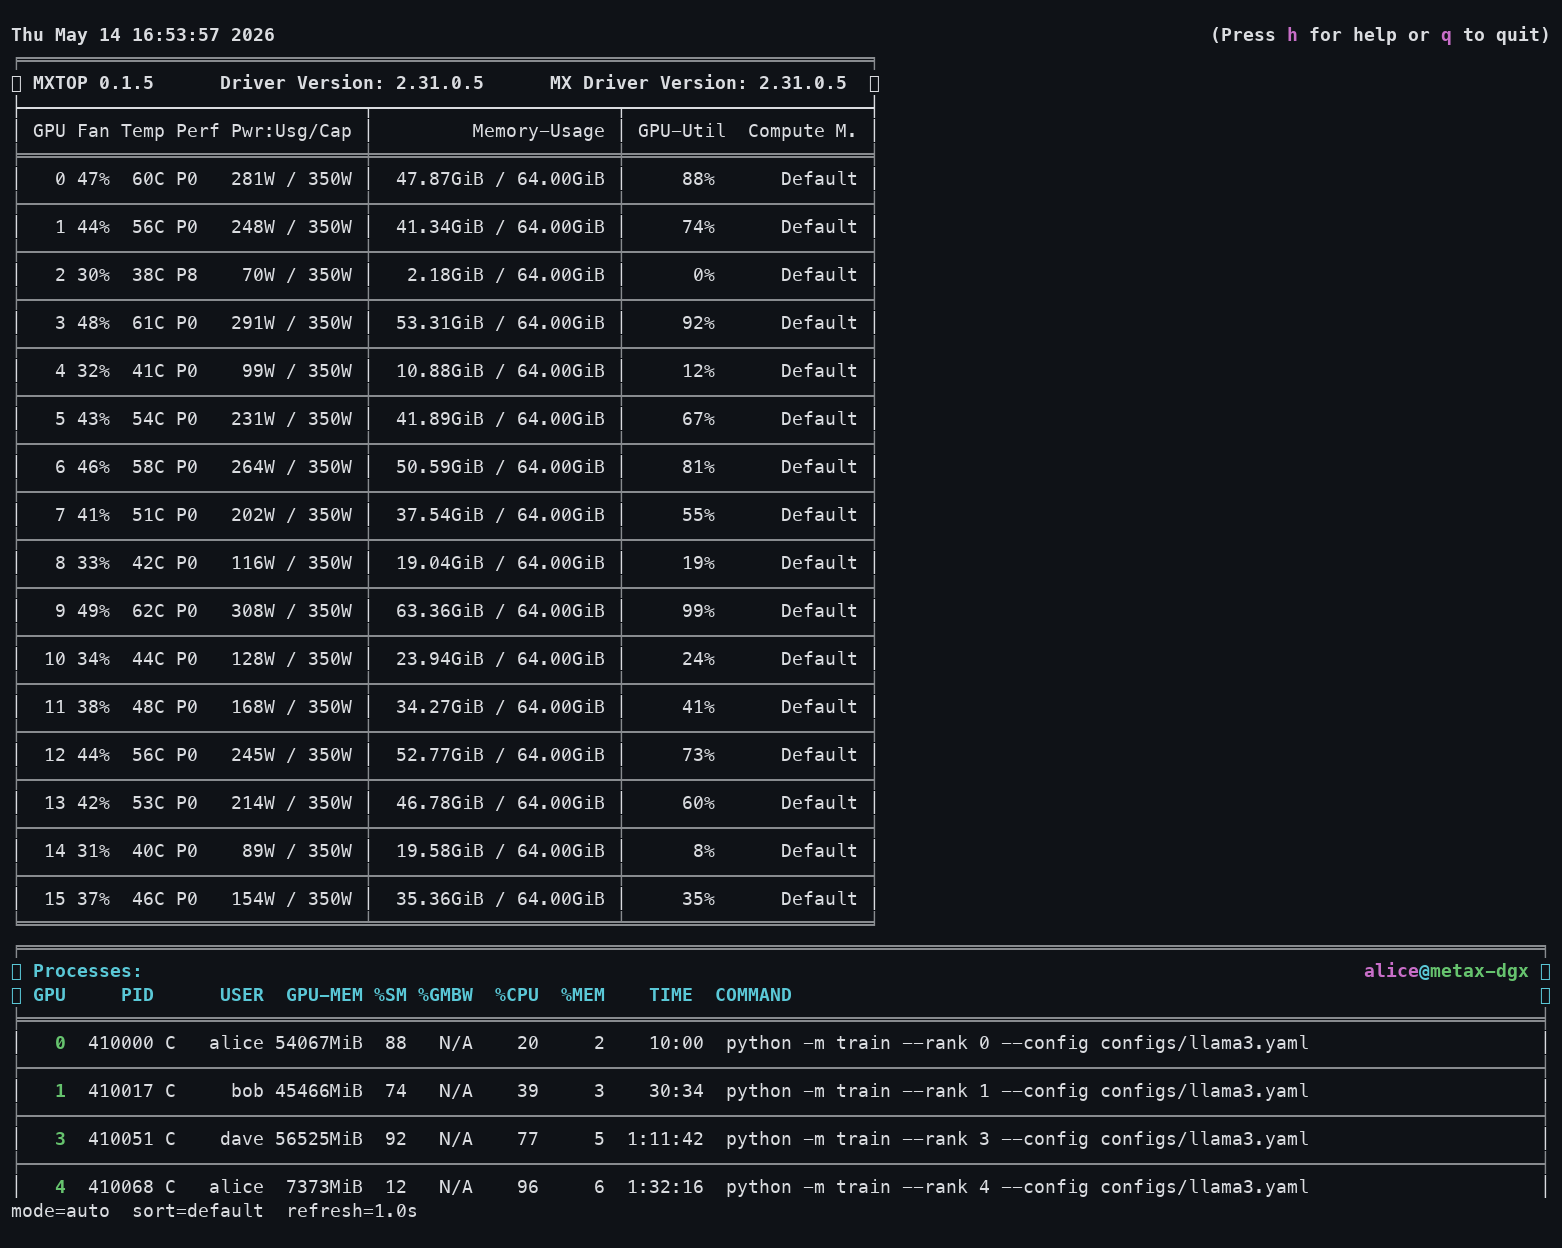
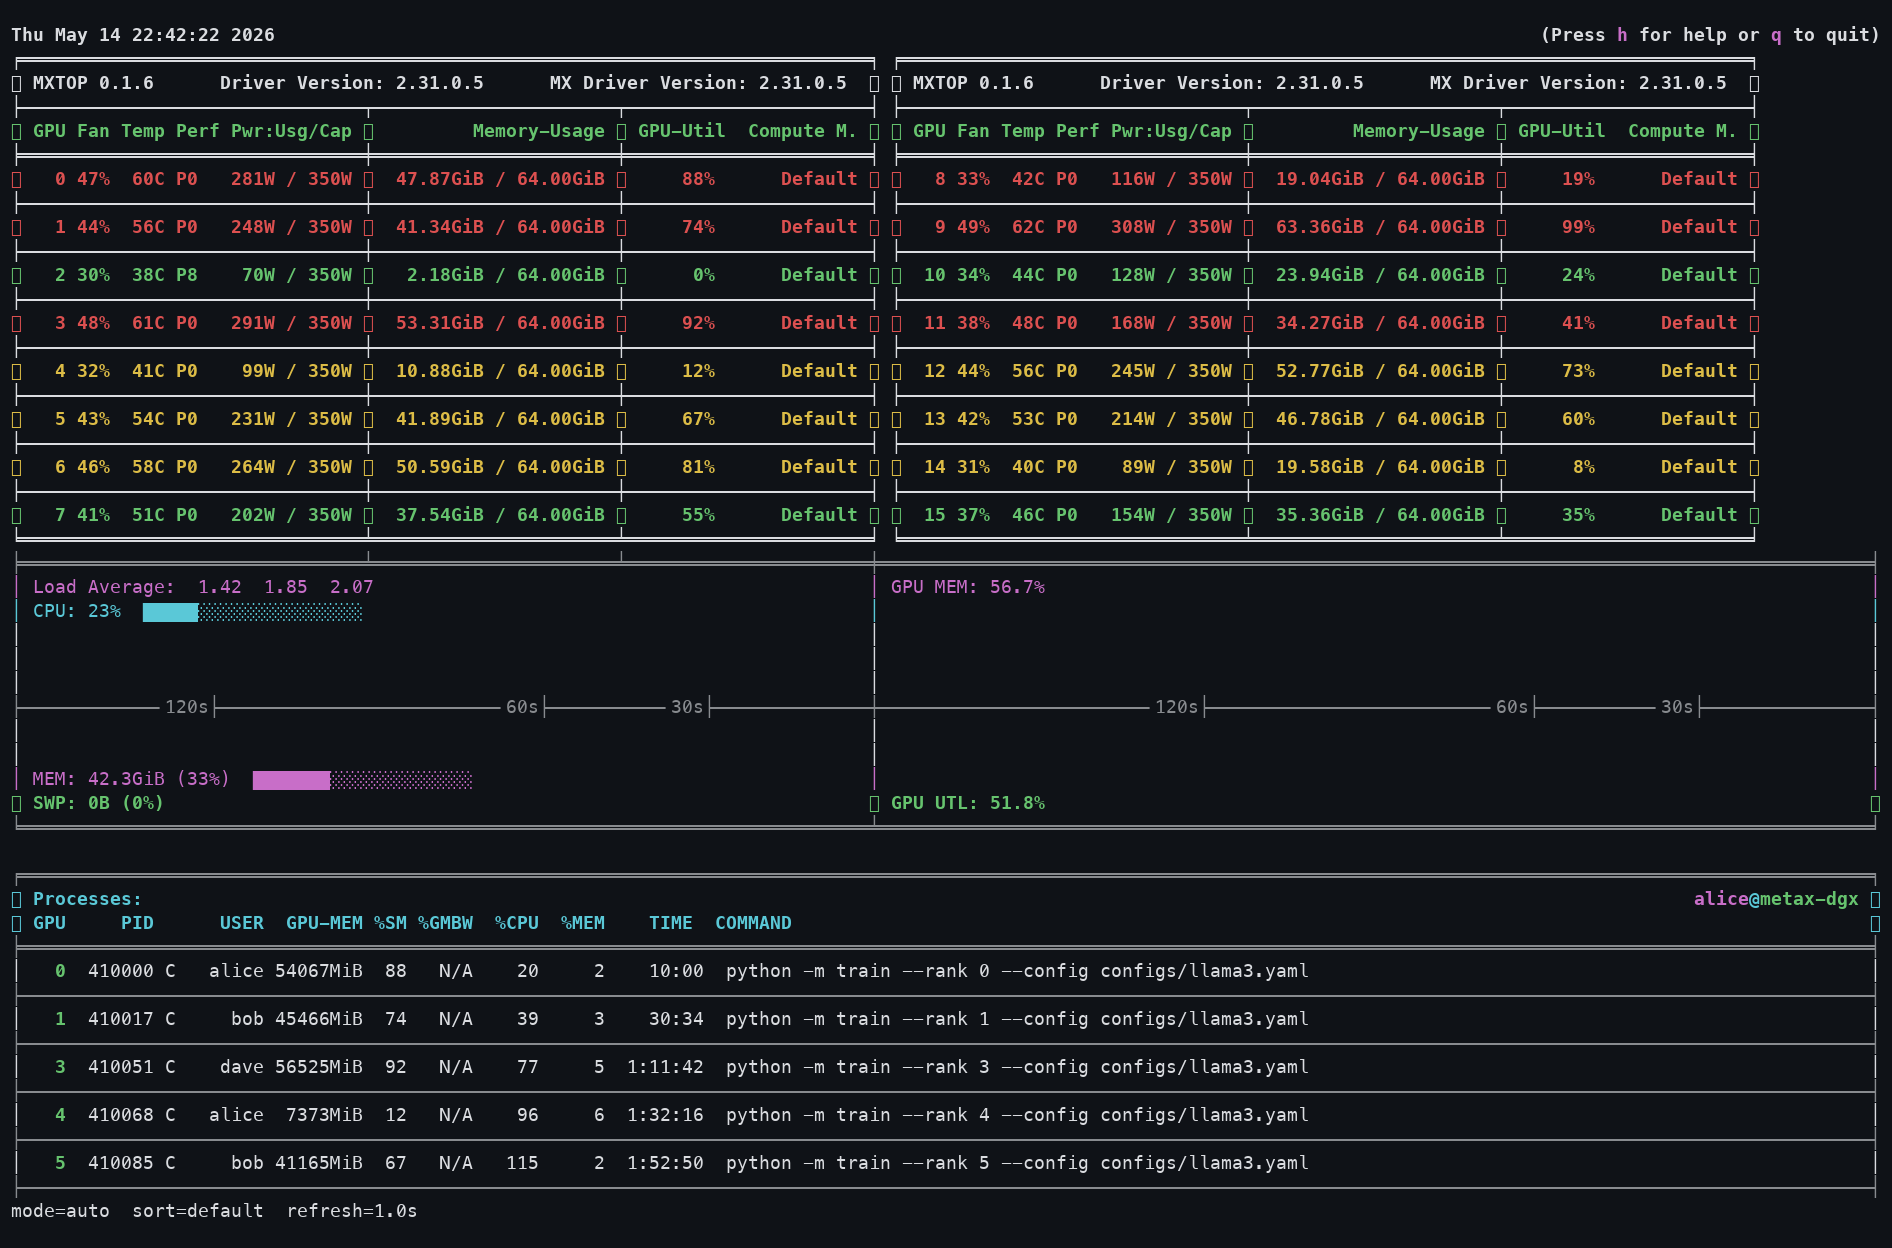
Add 8+8 compact GPU layout

Changed region(s): [[0.0, 0.0, 1.0, 1.0], [0.6146, 0.5625, 0.6453, 0.5938]]

diff --git a/src/mxtop/ui/panels.py b/src/mxtop/ui/panels.py
@@ -30,6 +30,9 @@ BAR_MIN_WIDTH = 100
 HOST_GRAPH_MIN_WIDTH = 100
 MIN_SCREEN_WIDTH = 79
 PROCESS_FIXED_PREFIX = 45
+COMPACT_COLUMN_LIMIT = 8
+COMPACT_COLUMN_GAP = 1
+COMPACT_GROUP_LIMIT = COMPACT_COLUMN_LIMIT * 2
 
 
 @dataclass(slots=True)
@@ -77,6 +80,8 @@ def render_device_panel(
     draw_bars = width >= BAR_MIN_WIDTH and not compact
     right_width = max(0, width - CORE_WIDTH) if draw_bars else 0
     driver_version = _driver_version(frame)
+    if compact and frame.devices and _can_render_compact_columns(len(frame.devices), width):
+        return _render_compact_device_columns(frame.devices, driver_version)
     lines: list[str] = []
     lines.append(_top_border(right_width))
     lines.append(_version_line(driver_version, right_width))
@@ -247,9 +252,9 @@ def render_main_screen(
 
     lines: list[str] = [render_title(frame, width, error)]
     show_host = state.layout != LayoutMode.COMPACT
-    compact_devices = _should_compact_devices(frame, state.layout, height, show_host)
+    compact_devices = _should_compact_devices(frame, state.layout, height, show_host, width)
     if compact_devices and state.layout == LayoutMode.AUTO:
-        show_host = show_host and _has_room_for_host(frame, height)
+        show_host = show_host and _has_room_for_host(frame, height, width)
     lines.extend(render_device_panel(frame, width, state.layout, compact=compact_devices))
     if show_host:
         lines.extend(render_host_panel(frame, width))
@@ -268,38 +273,117 @@ def render_main_screen(
     return RenderedScreen(lines, process_start=absolute_process_start, process_count=process_count)
 
 
-def _should_compact_devices(frame: FrameSnapshot, layout: LayoutMode, height: int | None, show_host: bool) -> bool:
+def _should_compact_devices(
+    frame: FrameSnapshot,
+    layout: LayoutMode,
+    height: int | None,
+    show_host: bool,
+    width: int,
+) -> bool:
     if layout == LayoutMode.COMPACT:
         return True
     if layout == LayoutMode.FULL:
         return False
     device_count = len(frame.devices) or 1
-    if device_count >= 8 and height is None:
-        return device_count >= 12
+    if device_count > COMPACT_COLUMN_LIMIT and height is None:
+        return True
     if height is None:
         return False
-    # Title (1) + version (1) + header_top (1) + headers (2) + divider (1) + bottom (1)
-    # Plus host panel (12 if shown) plus blank (1) plus process panel min (~6).
-    header_overhead = 7
+    # Title plus optional host panel/blank and a small process panel budget.
+    title_rows = 1
     host_overhead = 13 if show_host else 0
     process_min = 6
-    available_for_devices = height - header_overhead - host_overhead - process_min
-    full_rows_needed = device_count * 3 - 1  # 2 rows + 1 divider between, minus the last divider
-    if full_rows_needed <= available_for_devices:
+    available_for_devices = height - title_rows - host_overhead - process_min
+    full_rows_needed = _full_device_panel_rows(device_count)
+    if full_rows_needed <= max(available_for_devices, 1):
         return False
-    compact_rows_needed = device_count * 2 - 1
+    use_columns = _can_render_compact_columns(device_count, width)
+    compact_rows_needed = _compact_device_panel_rows(device_count, use_columns)
     return compact_rows_needed <= max(available_for_devices, 1) or device_count >= 8
 
 
-def _has_room_for_host(frame: FrameSnapshot, height: int | None) -> bool:
+def _has_room_for_host(frame: FrameSnapshot, height: int | None, width: int) -> bool:
     if height is None:
         return True
     device_count = len(frame.devices) or 1
-    header_overhead = 6  # title + version + header_top + 1 header line + divider + bottom
-    compact_device_rows = device_count * 2 - 1
+    title_rows = 1
+    use_columns = _can_render_compact_columns(device_count, width)
+    compact_device_rows = _compact_device_panel_rows(device_count, use_columns)
     process_min = 6
     host_overhead = 13
-    return height >= header_overhead + compact_device_rows + host_overhead + process_min
+    return height >= title_rows + compact_device_rows + host_overhead + process_min
+
+
+def _can_render_compact_columns(device_count: int, width: int) -> bool:
+    return device_count > COMPACT_COLUMN_LIMIT and width >= CORE_WIDTH * 2 + COMPACT_COLUMN_GAP
+
+
+def _full_device_panel_rows(device_count: int) -> int:
+    body_rows = 1 if device_count <= 0 else device_count * 3 - 1
+    return 7 + body_rows
+
+
+def _compact_device_panel_rows(device_count: int, use_columns: bool) -> int:
+    body_rows = _compact_device_body_rows(device_count, use_columns)
+    groups = _compact_device_group_count(device_count, use_columns)
+    return groups * 6 + body_rows
+
+
+def _compact_device_body_rows(device_count: int, use_columns: bool) -> int:
+    if device_count <= 0:
+        return 1
+    if not use_columns:
+        return device_count * 2 - 1
+    rows = 0
+    for group_start in range(0, device_count, COMPACT_GROUP_LIMIT):
+        group_count = min(COMPACT_GROUP_LIMIT, device_count - group_start)
+        group_rows = min(COMPACT_COLUMN_LIMIT, group_count)
+        rows += group_rows * 2 - 1
+    return rows
+
+
+def _compact_device_group_count(device_count: int, use_columns: bool) -> int:
+    if device_count <= 0 or not use_columns:
+        return 1
+    return (device_count + COMPACT_GROUP_LIMIT - 1) // COMPACT_GROUP_LIMIT
+
+
+def _render_compact_device_columns(devices: list[DeviceSnapshot], driver_version: str) -> list[str]:
+    lines: list[str] = []
+    for group_start in range(0, len(devices), COMPACT_GROUP_LIMIT):
+        group = devices[group_start : group_start + COMPACT_GROUP_LIMIT]
+        left_devices = group[:COMPACT_COLUMN_LIMIT]
+        right_devices = group[COMPACT_COLUMN_LIMIT:]
+        lines.extend(_render_compact_device_column_group(left_devices, right_devices, driver_version))
+    return lines
+
+
+def _render_compact_device_column_group(
+    left_devices: list[DeviceSnapshot],
+    right_devices: list[DeviceSnapshot],
+    driver_version: str,
+) -> list[str]:
+    rows = max(len(left_devices), len(right_devices))
+    gap = " " * COMPACT_COLUMN_GAP
+
+    def pair(left: str, right: str) -> str:
+        return f"{left}{gap}{right}"
+
+    lines = [
+        pair(_top_border(0), _top_border(0)),
+        pair(_version_line(driver_version, 0), _version_line(driver_version, 0)),
+        pair(_header_top_divider(0), _header_top_divider(0)),
+        pair(_header_line_compact(0), _header_line_compact(0)),
+        pair(_header_data_divider(0, False), _header_data_divider(0, False)),
+    ]
+    for row_index in range(rows):
+        if row_index > 0:
+            lines.append(pair(_row_divider(0, False), _row_divider(0, False)))
+        left = _device_row_compact(left_devices[row_index]) if row_index < len(left_devices) else _core_line("")
+        right = _device_row_compact(right_devices[row_index]) if row_index < len(right_devices) else _core_line("")
+        lines.append(pair(left, right))
+    lines.append(pair(_bottom_border(0), _bottom_border(0)))
+    return lines
 
 
 def _core_line(content: str) -> str:

diff --git a/tests/test_rendering.py b/tests/test_rendering.py
@@ -3,6 +3,13 @@ from mxtop.formatting import format_bar
 from mxtop.rendering import render_once
 
 
+def _many_devices(count=16):
+    return [
+        DeviceSnapshot(index=i, name="MXC500", gpu_util_percent=12, memory_util_percent=8)
+        for i in range(count)
+    ]
+
+
 def test_render_once_includes_gpu_and_process_rows():
     frame = FrameSnapshot(
         devices=[
@@ -149,15 +156,37 @@ def test_render_once_emits_ansi_color_when_enabled():
 
 
 def test_render_once_colors_compact_device_rows():
-    frame = FrameSnapshot(
-        devices=[DeviceSnapshot(index=i, name="MXC500", gpu_util_percent=12, memory_util_percent=8) for i in range(16)],
-        processes=[],
+    frame = FrameSnapshot(devices=_many_devices(), processes=[])
+
+    output = render_once(frame, width=170, use_color=True)
+    device_line = next(
+        line for line in output.splitlines() if "│   0 " in line and "│   8 " in line
     )
 
-    output = render_once(frame, width=120, use_color=True)
-
     assert "GPU Fan Temp Perf" in output
-    assert "\x1b[32m" in output
+    assert device_line.startswith("\x1b[1m\x1b[32m")
+
+
+def test_render_once_uses_two_compact_columns_for_16_gpu_wide_terminal():
+    frame = FrameSnapshot(devices=_many_devices(), processes=[])
+
+    output = render_once(frame, width=170, use_color=False)
+    lines = output.splitlines()
+
+    assert any(line.count("GPU Fan Temp") == 2 for line in lines)
+    assert any("│   0 " in line and "│   8 " in line for line in lines)
+    assert any("│   7 " in line and "│  15 " in line for line in lines)
+
+
+def test_render_once_keeps_single_compact_column_when_16_gpu_terminal_is_narrow():
+    frame = FrameSnapshot(devices=_many_devices(), processes=[])
+
+    output = render_once(frame, width=120, use_color=False)
+    lines = output.splitlines()
+
+    assert "│  15 " in output
+    assert not any(line.count("GPU Fan Temp") == 2 for line in lines)
+    assert not any("│   0 " in line and "│   8 " in line for line in lines)
 
 
 def test_render_once_omits_ansi_color_when_disabled():

diff --git a/tests/test_tui.py b/tests/test_tui.py
@@ -76,11 +76,14 @@ def test_handle_key_updates_sort_and_layout(monkeypatch):
 
 def test_new_layout_rows_are_detected_for_colored_drawing():
     device_row = "│   0  42%  63C  P0     215W/350W │       59GiB / 64GiB │     88%      Default │ MEM: ████████░░ 92%"
+    second_column = "│   8  42%  63C  P0     215W/350W │       59GiB / 64GiB │     88%      Default │"
+    two_column_device_row = f"{device_row} {second_column}"
     process_row = "│    0  423901    alice  51200MiB  88    64   312%  18GiB  4:27:05 python train.py │"
     host_row = "│ CPU:  23%  ████░░░░░░░░░░░░░░░░ MEM:  33% 42.3GiB/128GiB │"
     version_row = "│ MXTOP 0.1.5  Driver Version: 2.31.0.5 │"
 
     assert tui._is_device_data_line(device_row)
+    assert tui._is_device_data_line(two_column_device_row)
     assert tui._is_process_data_line(process_row)
     assert tui._is_host_data_line(host_row)
     assert tui._is_version_line(version_row)

diff --git a/README.md b/README.md
@@ -17,7 +17,7 @@
   <img src="assets/mxtop-preview.png" alt="mxtop terminal preview"/>
 </p>
 
-<p align="center"><em>16-GPU host? mxtop auto-switches to a 1-row-per-device compact layout so the table never overflows the screen.</em></p>
+<p align="center"><em>16-GPU host? mxtop uses an 8+8 compact layout when the terminal is wide enough, with a single-column fallback for narrower screens.</em></p>
 
 <p align="center">
   <img src="assets/mxtop-preview-many.png" alt="mxtop 16-GPU compact layout"/>
